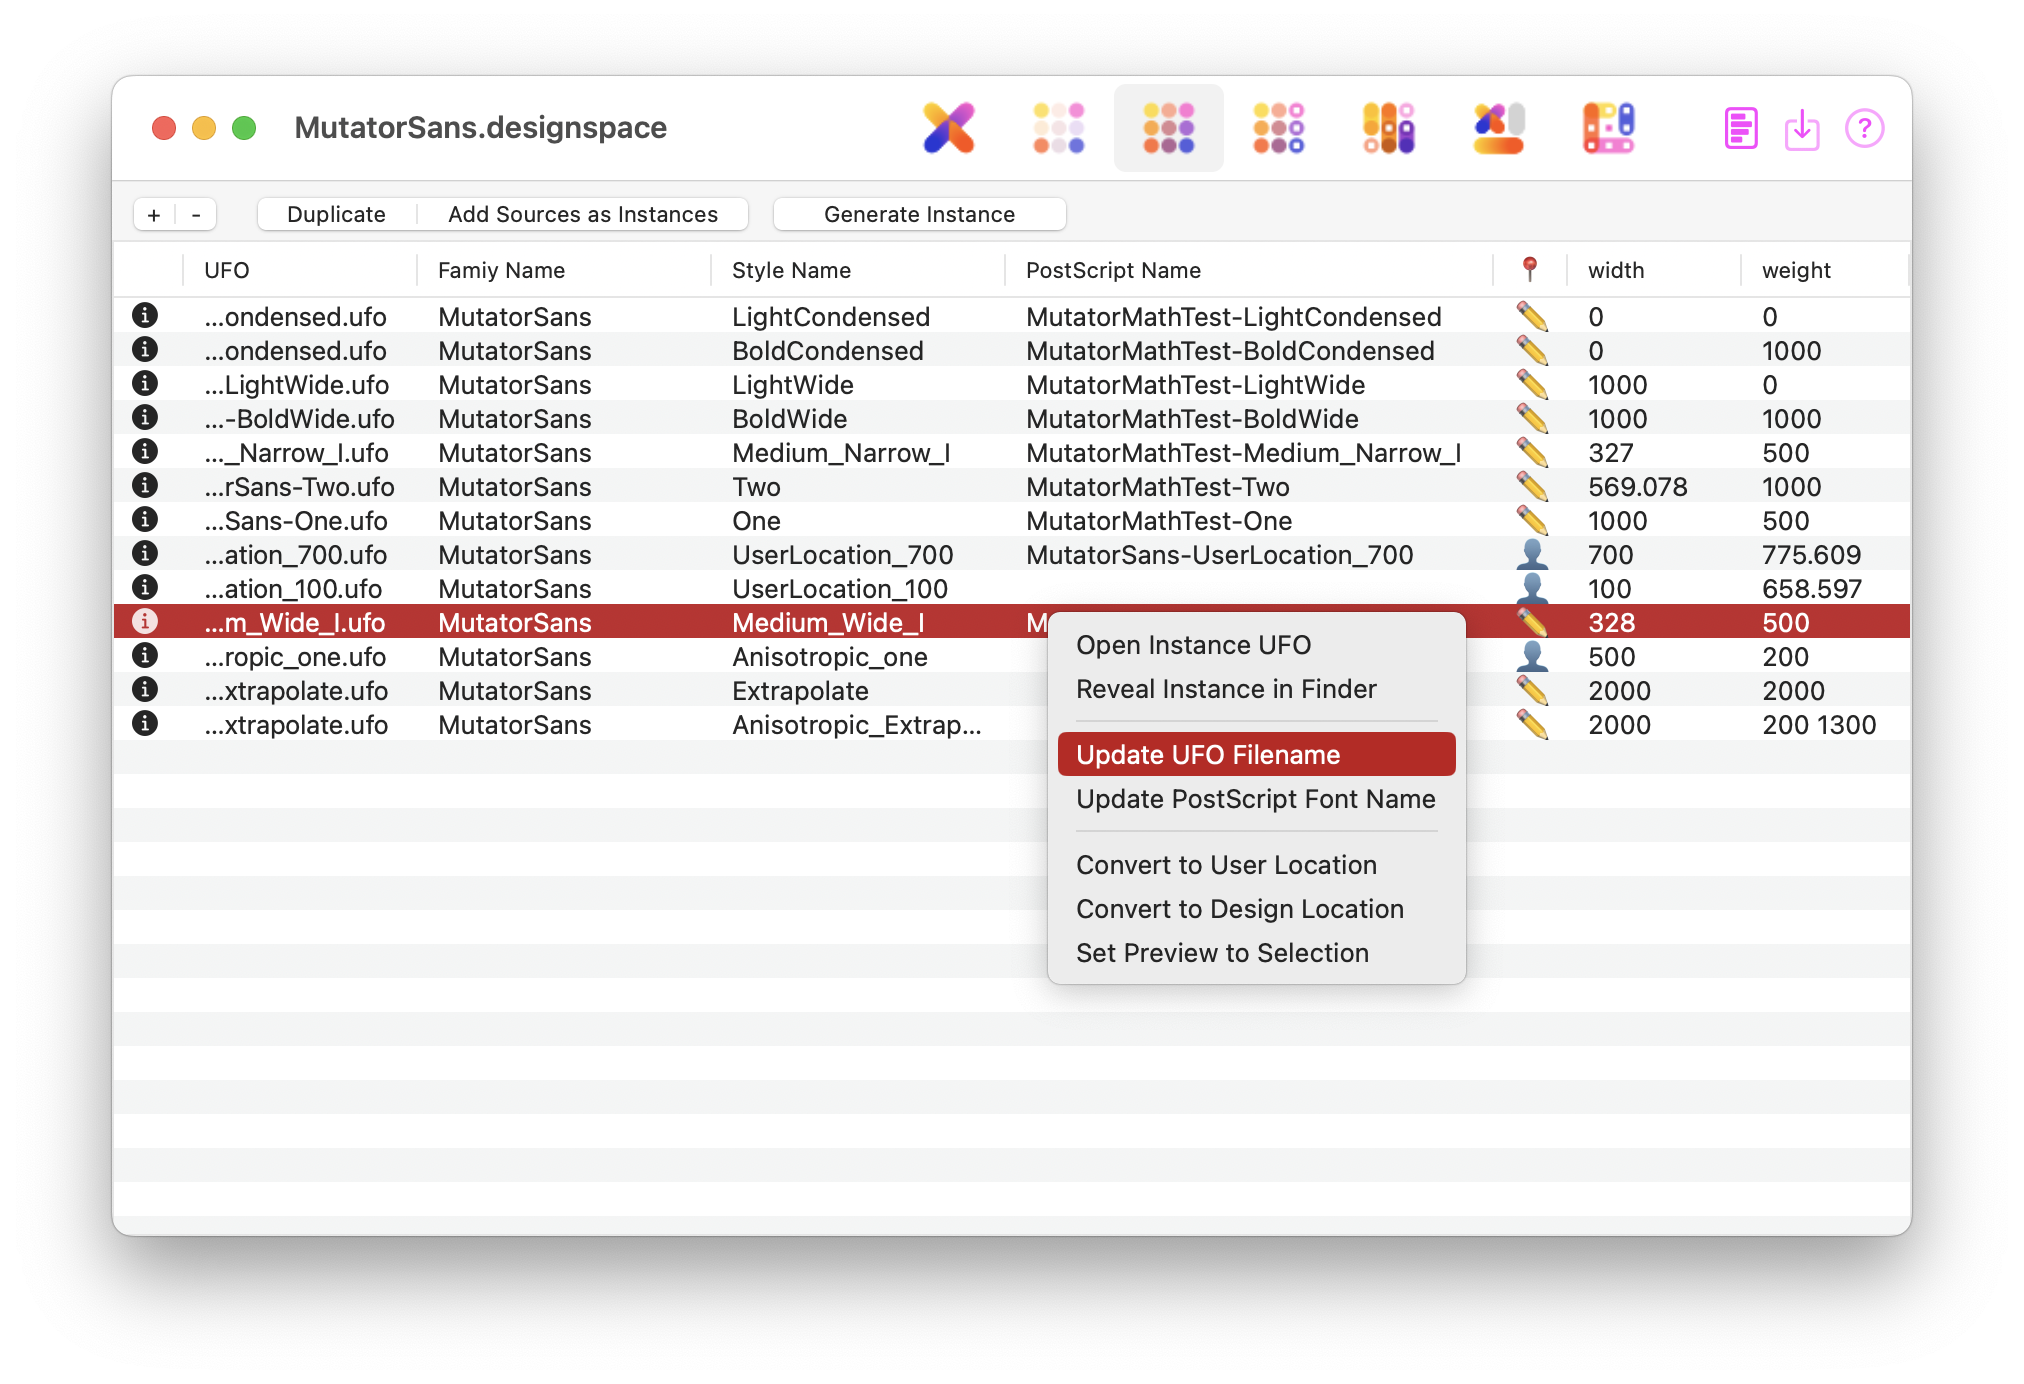
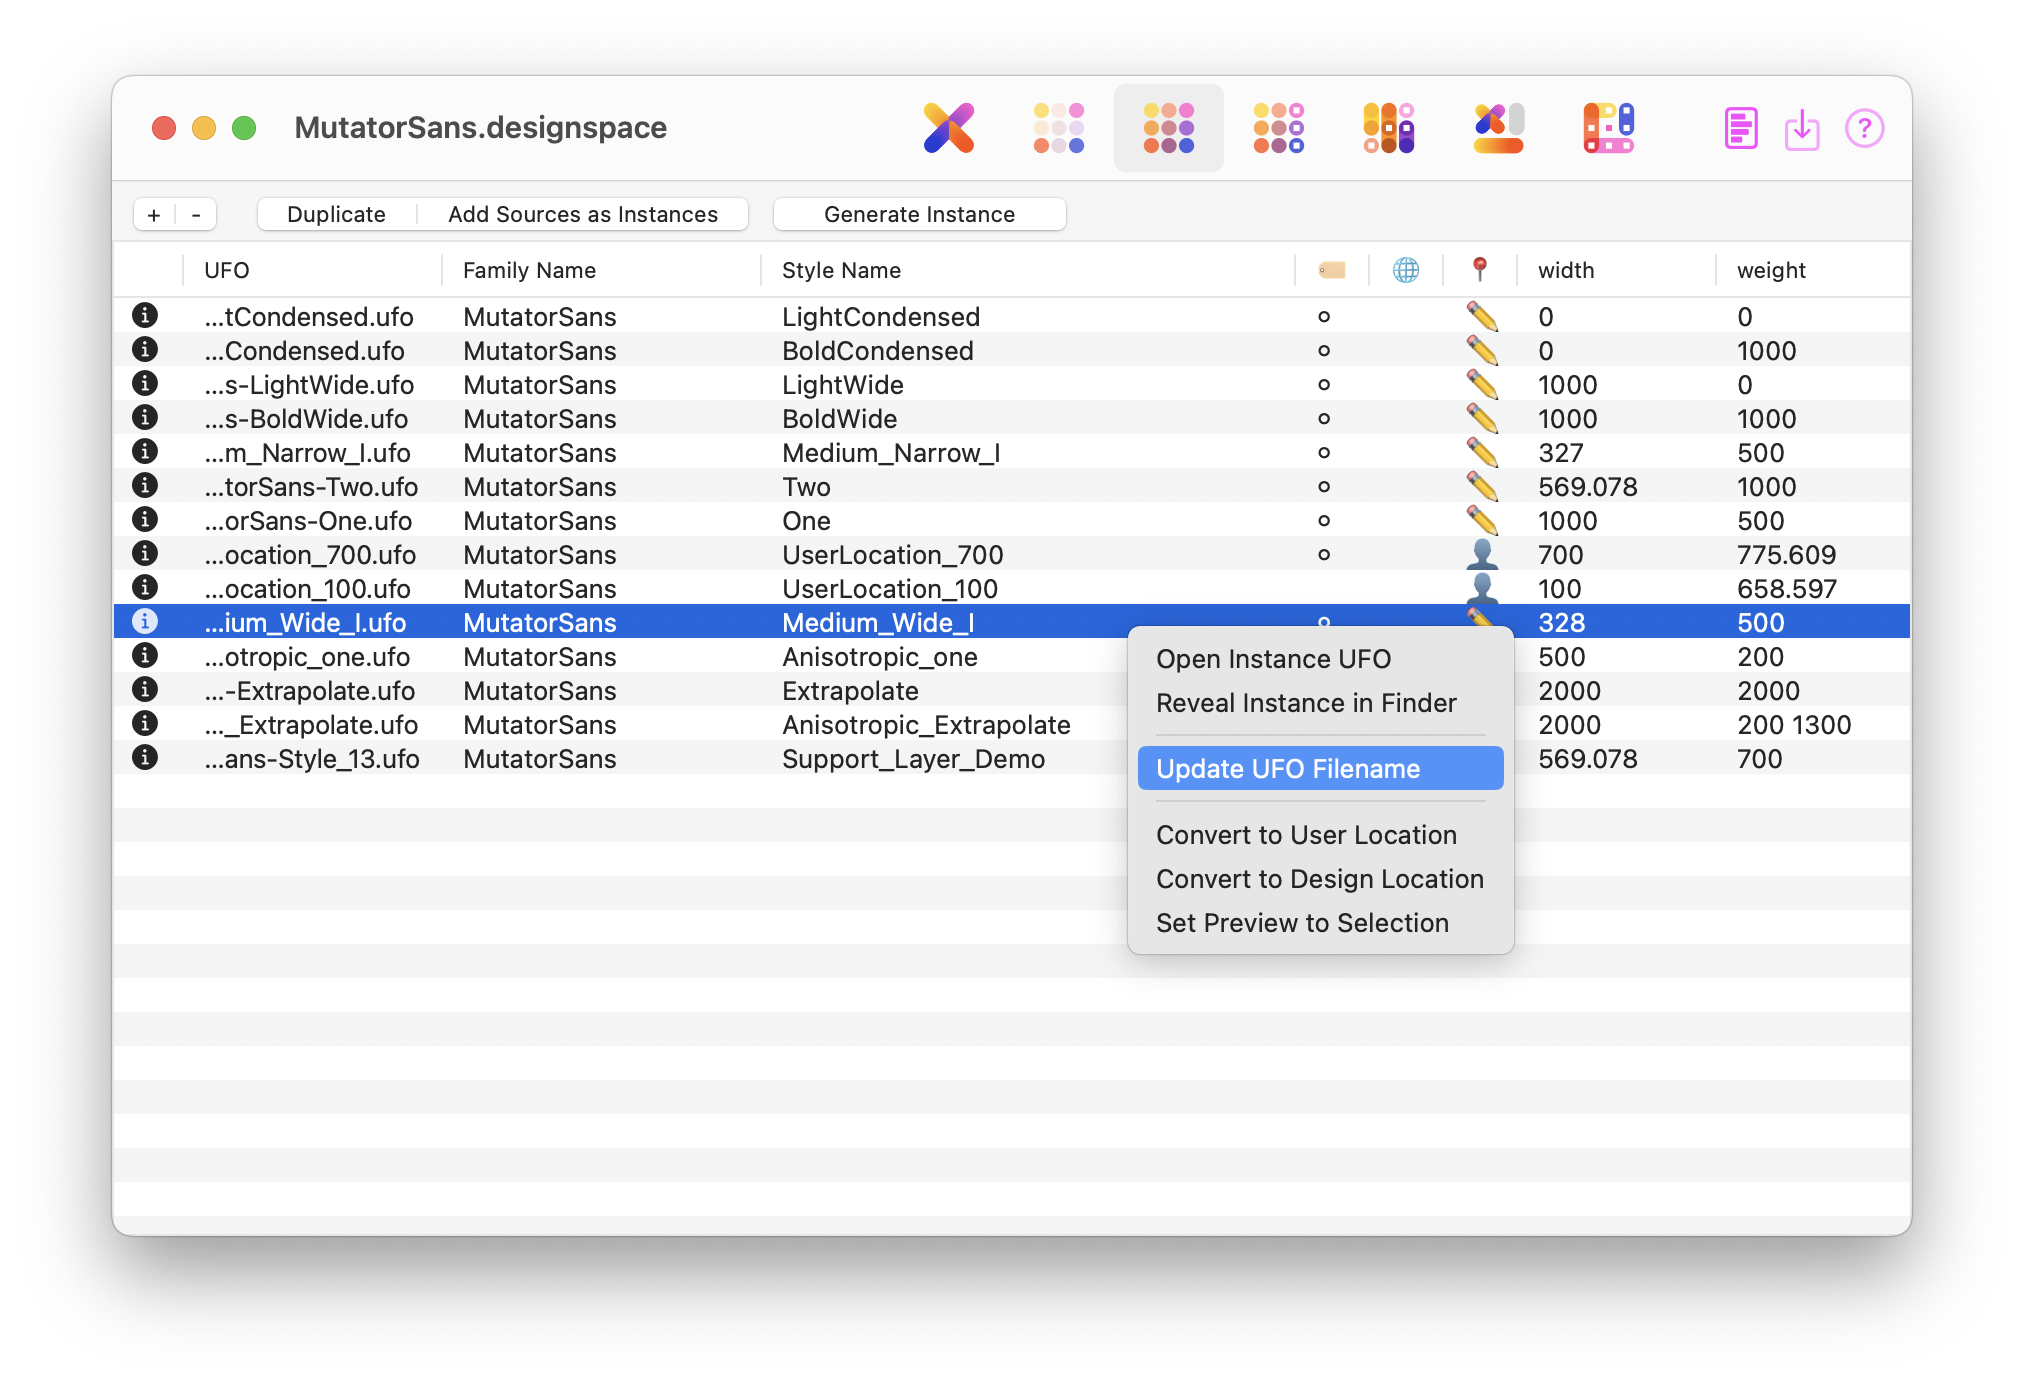
Updated instance section in the docs

Changed region(s): [[0.0311, 0.1864, 0.9649, 0.7457], [0.8404, 0.1864, 0.9027, 0.2175], [0.7782, 0.0621, 0.8093, 0.1243]]

diff --git a/DesignspaceEditor2.roboFontExt/html/index.html b/DesignspaceEditor2.roboFontExt/html/index.html
@@ -535,9 +535,9 @@ The idea is the same, the names differ and the expectations and implementation a
     <li><strong>Duplicate:</strong> duplicates the selected instances</li>
     <li><strong>Add Source as Instances:</strong> makes new instances at the designspace locations of the sources.</li>
     <li><strong>Generate Instance:</strong> this brings up a dialog with options for generating UFOs. Here you can choose between the MutatorMath and Varlib, and whether to round the geometry to integers.</li>
-    <li>Choose the <b>MutatorMath</b> model to generate instances if you want to calculate instances at anisotropic locations, or if you want to extrapolate over axis extremes. MutatorMath is a bit more forgiving when it comes to the number of off-curves and missing sources.</li>
+    <!-- <li>Choose the <b>MutatorMath</b> model to generate instances if you want to calculate instances at anisotropic locations, or if you want to extrapolate over axis extremes. MutatorMath is a bit more forgiving when it comes to the number of off-curves and missing sources.</li>
     <li>Choose <strong>VarLib</strong> to use the fontTools VarLib model to generate instances. This stays close to how variable fonts will show the instances. Varlib is more picky and expects all data to be present and correct.</li>
-    <li>Why are there even two models? MutatorMath was written long before Variable fonts and it is geared toward exploration and discovery, to be used during the design phase. Varlib represents how Variable fonts work, optimised for speed and production.</li>
+    <li>Why are there even two models? MutatorMath was written long before Variable fonts and it is geared toward exploration and discovery, to be used during the design phase. Varlib represents how Variable fonts work, optimised for speed and production.</li> -->
 </ul>
 
 <h3>Instances Tab Menus</h3>
@@ -553,9 +553,9 @@ The idea is the same, the names differ and the expectations and implementation a
         <li>
             <b>Update UFO Filename</b>: make a new filename for this UFO instance, based on the family and stylename according this pattern: <code>instances/[familyName]-[styleName].ufo</code>
         </li>
-        <li>
+        <!-- <li>
             <b>Update PostScript Fontname</b>: make a new PostScript fontname for this UFO instance, based on the family and stylename according this pattern: <code>[familyName]-[styleName]</code>. Note that some tools respond differently when the PostScript fontname is not defined, so if you want to be sure, define it here.
-        </li>
+        </li> -->
         <li>
             <b>Convert to User Location</b>: convert this design coordinates to user coordinates, according to axis mapping.
         </li>
@@ -576,13 +576,11 @@ The idea is the same, the names differ and the expectations and implementation a
 <table>
     <tr>
         <td><img src="toolbar_25_25_info.circle.fill.svg"></td>
-        <td>button for the popover editor for localised family and style names.</td>
+        <td>button for the popover editor for additional names, as well as localised family and style names.</td>
     </tr>
     <tr>
-        <td>UFO
-        </td>
-        <td>path and filename of destination UFO (if that is where you want to go obviously)
-        </td>
+        <td>UFO</td>
+        <td>path and filename of destination UFO (if that is where you want to go obviously)</td>
     </tr>
     <tr>
         <td><strong>Family Name</strong>
@@ -597,18 +595,22 @@ The idea is the same, the names differ and the expectations and implementation a
         </td>
     </tr>
     <tr>
-        <td><strong>📍</strong>
-        </td>
-        <td>The icons in this column indicate if the location values are specified as 👤userspace (a person icon, because user), or ✏designspace (a pencil icon because design). See Note 1.
-        </td>
+        <td>🏷</td>
+        <td>Indicates if the instance has addtional names applied, like PostScript name (previously a column on the main table) or Style Map names. Click the <img src="toolbar_25_25_info.circle.fill.svg"> for the <b>Additional Names editor</b>.</td>
     </tr>
     <tr>
-        <td>column for each axis</td>
+        <td>🌐</td>
+        <td>Indicates if there are localised names for this source. Click the <img src="toolbar_25_25_info.circle.fill.svg"> for the <b>Localised Family Name & Style Name editors</b>.</td>
+    </tr>
+    <tr>
+        <td>📍</td>
+        <td>The icons in this column indicate if the location values are specified as 👤userspace (a person icon, because user), or ✏designspace (a pencil icon because design). See <a href="#note1-about-userspace-designspace-coordinates">Note 1</a>.</td>
+    </tr>
+    <tr>
+        <td>Column for Each Axis</td>
         <td>Axis values can be in <strong>userspace</strong> or <strong>design coordinates</strong>. Anisotropic values are separated by a space. See <a href="#note2-about-anisotropic-instances">Note 2</a></td>
     </tr>
 </table>
-
-
 
 <h3 id="note1-about-userspace-designspace-coordinates">Note 1: About userspace and designspace locations</h3>
 
@@ -644,6 +646,29 @@ The idea is the same, the names differ and the expectations and implementation a
     </li>
 </ul>
 
+<h3>Additional Names editor</h3>
+<p><em>Click the magic wand next to each field to generate a guess at what the value should be based on the Family and Style name provided on the main table. The authors make no warranties or guarantees that they are correct! You should double-check their validity.</em></p>
+<table>
+    <tr>
+        <td>Identifying Name</td>
+        <td>A unique name that can be used to identify this font if it needs to be referenced elsewhere in the backend. If not provided it'll be made up.</td>
+    </tr>
+    <tr>
+        <td>PostScript Font Name</td>
+        <td>Corresponds with <code>font.info.postscriptFontName</code>. Should ideally follow the rules for PostScript names, found in the <a href="https://learn.microsoft.com/en-us/typography/opentype/spec/name#nid4">OT Spec</a>.</td>
+    </tr>
+    <tr>
+        <td>Style Map Family & Style Map Style Names</td>
+        <td>Corresponds with <code>font.info.styleMapFamilyName</code> and <code>font.info.styleMapStyleName</code>. See some examples in the <a href="https://robofont.com/documentation/tutorials/setting-font-names/?highlight=style%20map#font-naming">RF Docs</a>.</td>
+    </tr>
+</table>
+
+<h3>Localised Family/Style Name editor syntax</h3>
+
+<div><pre><code class="language-none"># localised name starts with a ? &lt;language tag&gt; &lt;localised string&gt;
+? fr &#39;Montserrat&#39;
+? ja &#39;モンセラート&#39;</code></pre>
+</div>
 
 
 <p><img class="bigicon" src="toolbar_500_500_icon_rules.png" alt="DSE2 rules icon"></p>

diff --git a/DesignspaceEditor2.roboFontExt/lib/designspaceEditor/ui.py b/DesignspaceEditor2.roboFontExt/lib/designspaceEditor/ui.py
@@ -143,7 +143,8 @@ class DesignspaceEditorOperator(ufoOperator.UFOOperator):
         if "styleName" not in kwargs:
             kwargs["styleName"] = f"Style_{len(self.instances)}"
         if "filename" not in kwargs:
-            kwargs["filename"] = os.path.join(getExtensionDefault('instanceFolderName', 'instances'), f"{kwargs['familyName'] }-{kwargs['styleName']}.ufo")
+            filename = postScriptNameTransformer(kwargs["familyName"], kwargs["styleName"])
+            kwargs["filename"] = os.path.join(getExtensionDefault('instanceFolderName', 'instances'), f"{filename}.ufo")
 
         with SendNotification("Instances", action="AddInstance", designspace=self) as notification:
             instanceDescriptor = super().addInstanceDescriptor(**kwargs)
@@ -1086,6 +1087,7 @@ class DesignspaceEditorController(Subscriber, WindowController, BaseNotification
             dragSettings=dict(type="sourcesListDragAndDropType", callback=self.dragCallback),
             selfDropSettings=dict(type="sourcesListDragAndDropType", operation=AppKit.NSDragOperationMove, callback=self.dropCallback),
         )
+        addToolTipForColumn(self.sources.list, "genericInfoButton", "Double click to edit additional instance info")
         addToolTipForColumn(self.instances.list, "instanceHasAdditionalNames", "Instance has additional names")
         addToolTipForColumn(self.instances.list, "instanceHasLocalisedFamilyNames", "Instance has localised family and/or style names")
         addToolTipForColumn(self.instances.list, "instanceLocation", "Indicate if the location of the instance is a user location or a design location.")
@@ -1422,8 +1424,9 @@ class DesignspaceEditorController(Subscriber, WindowController, BaseNotification
         self.instancesChanged()
 
     def wrapInstanceDescriptor(self, instanceDescriptor):
+        filename = postScriptNameTransformer(instanceDescriptor.familyName, instanceDescriptor.styleName)
         wrapped = dict(
-            instanceUFOFileName=instanceDescriptor.filename if instanceDescriptor.filename is not None else os.path.join(getExtensionDefault('instanceFolderName', 'instances'), f"{instanceDescriptor.familyName}-{instanceDescriptor.styleName}.ufo"),
+            instanceUFOFileName=instanceDescriptor.filename if instanceDescriptor.filename is not None else os.path.join(getExtensionDefault('instanceFolderName', 'instances'), f"{filename}.ufo"),
             instanceFamilyName=instanceDescriptor.familyName or "",
             instanceStyleName=instanceDescriptor.styleName or "",
             # instancePostscriptFontName=instanceDescriptor.postScriptFontName or "",
@@ -1473,11 +1476,12 @@ class DesignspaceEditorController(Subscriber, WindowController, BaseNotification
             existingLocations = [instanceDescriptor.getFullDesignLocation(self.operator) for instanceDescriptor in self.operator.instances]
             for sourceDescriptor in self.operator.sources:
                 if sourceDescriptor.location not in existingLocations:
+                    fileName = postScriptNameTransformer(sourceDescriptor.familyName, sourceDescriptor.styleName)
                     self.operator.addInstanceDescriptor(
                         familyName=sourceDescriptor.familyName,
                         styleName=sourceDescriptor.styleName,
                         designLocation=sourceDescriptor.location,
-                        filename=os.path.join(getExtensionDefault('instanceFolderName', 'instances'), f"{sourceDescriptor.familyName}-{sourceDescriptor.styleName}.ufo")
+                        filename=os.path.join(getExtensionDefault('instanceFolderName', 'instances'), f"{fileName}.ufo")
                     )
 
     def instancesEditorGenerateToolsCallback(self, sender):
@@ -1678,7 +1682,7 @@ class DesignspaceEditorController(Subscriber, WindowController, BaseNotification
             newFamilyName = first.familyName
             newStyleName = f"{first.styleName}_{second.styleName}"
             # postScriptFontName = f"{newFamilyName}-{newStyleName}"
-            instanceUFOFileName = f"{newFamilyName}-{newStyleName}.ufo"
+            instanceUFOFileName = postScriptNameTransformer(newFamilyName, newStyleName) + ".ufo"
             self.operator.addInstanceDescriptor(
                 familyName=first.familyName,
                 styleName=newStyleName,
@@ -1969,7 +1973,8 @@ class DesignspaceEditorController(Subscriber, WindowController, BaseNotification
                 instanceDescriptor = self.unwrapInstanceDescriptor(wrappedInstanceDescriptor)
                 if instanceDescriptor.filename is None:
                     # maybe DSE should always update the ufo name?
-                    instanceDescriptor.filename = os.path.join(getExtensionDefault('instanceFolderName', 'instances'), f"{instanceDescriptor.familyName}-{instanceDescriptor.styleName}.ufo")
+                    filename = postScriptNameTransformer(instanceDescriptor.familyName, instanceDescriptor.styleName)
+                    instanceDescriptor.filename = os.path.join(getExtensionDefault('instanceFolderName', 'instances'), f"{filename}.ufo")
                 instanceDescriptor.path = os.path.abspath(os.path.join(root, instanceDescriptor.filename))
 
             # TODO self.operator.lib[self.mathModelPrefKey] = self.mathModelPref
